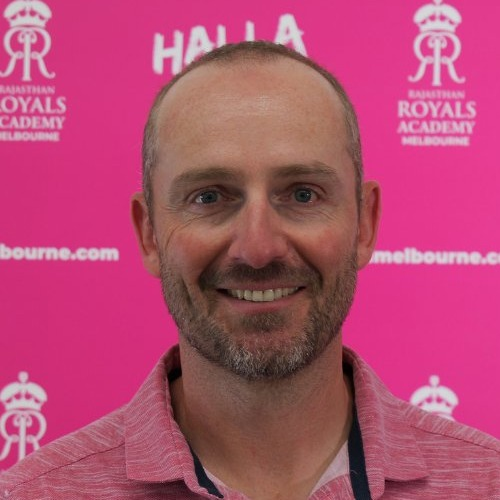
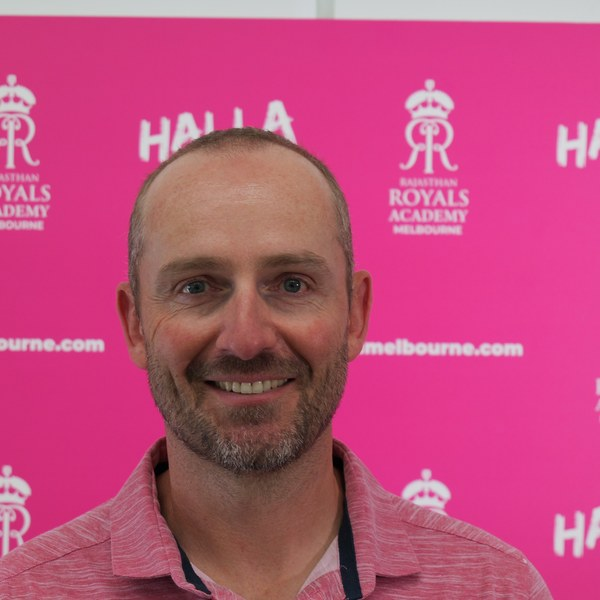
[Homepage] Improve coach headshots — tight face crops, square card aspect ratio
- Re-cropped both photos with tight face-centred 500x500 crop
- Card photo area changed to aspect-square for better portrait display
- object-center ensures face fills the frame correctly

diff --git a/src/components/home-page/HomeCoaches.jsx b/src/components/home-page/HomeCoaches.jsx
@@ -52,12 +52,12 @@ const HomeCoaches = () => {
                             className="flex flex-col bg-white rounded-2xl border border-slate-100 shadow-sm overflow-hidden"
                         >
                             {/* Photo */}
-                            <div className="relative w-full aspect-[4/3] overflow-hidden bg-slate-100">
+                            <div className="relative w-full aspect-square overflow-hidden bg-slate-100">
                                 {coach.image ? (
                                     <img
                                         src={coach.image}
                                         alt={coach.name}
-                                        className="w-full h-full object-cover object-top"
+                                        className="w-full h-full object-cover object-center"
                                     />
                                 ) : (
                                     <div className="w-full h-full flex items-center justify-center font-black text-5xl text-white"
